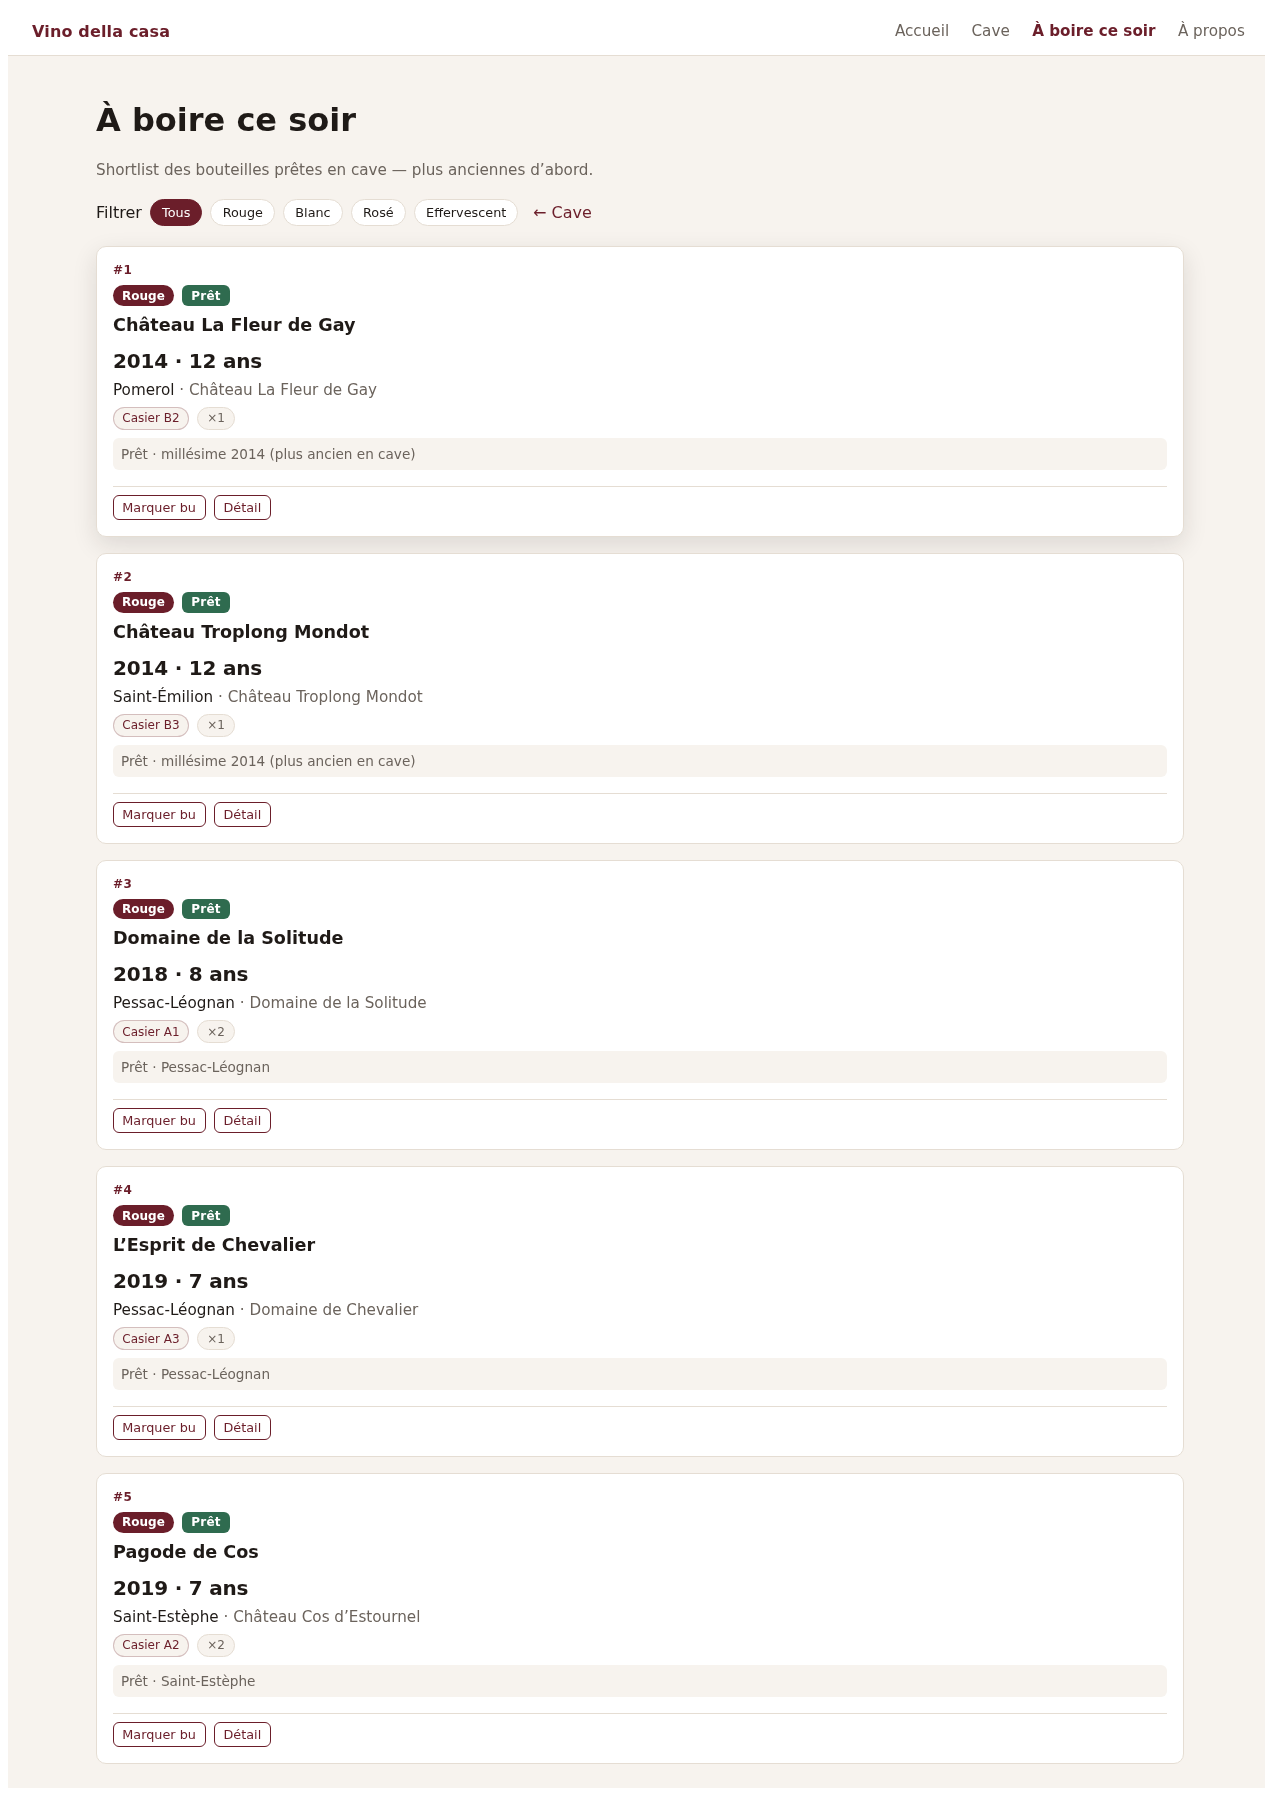
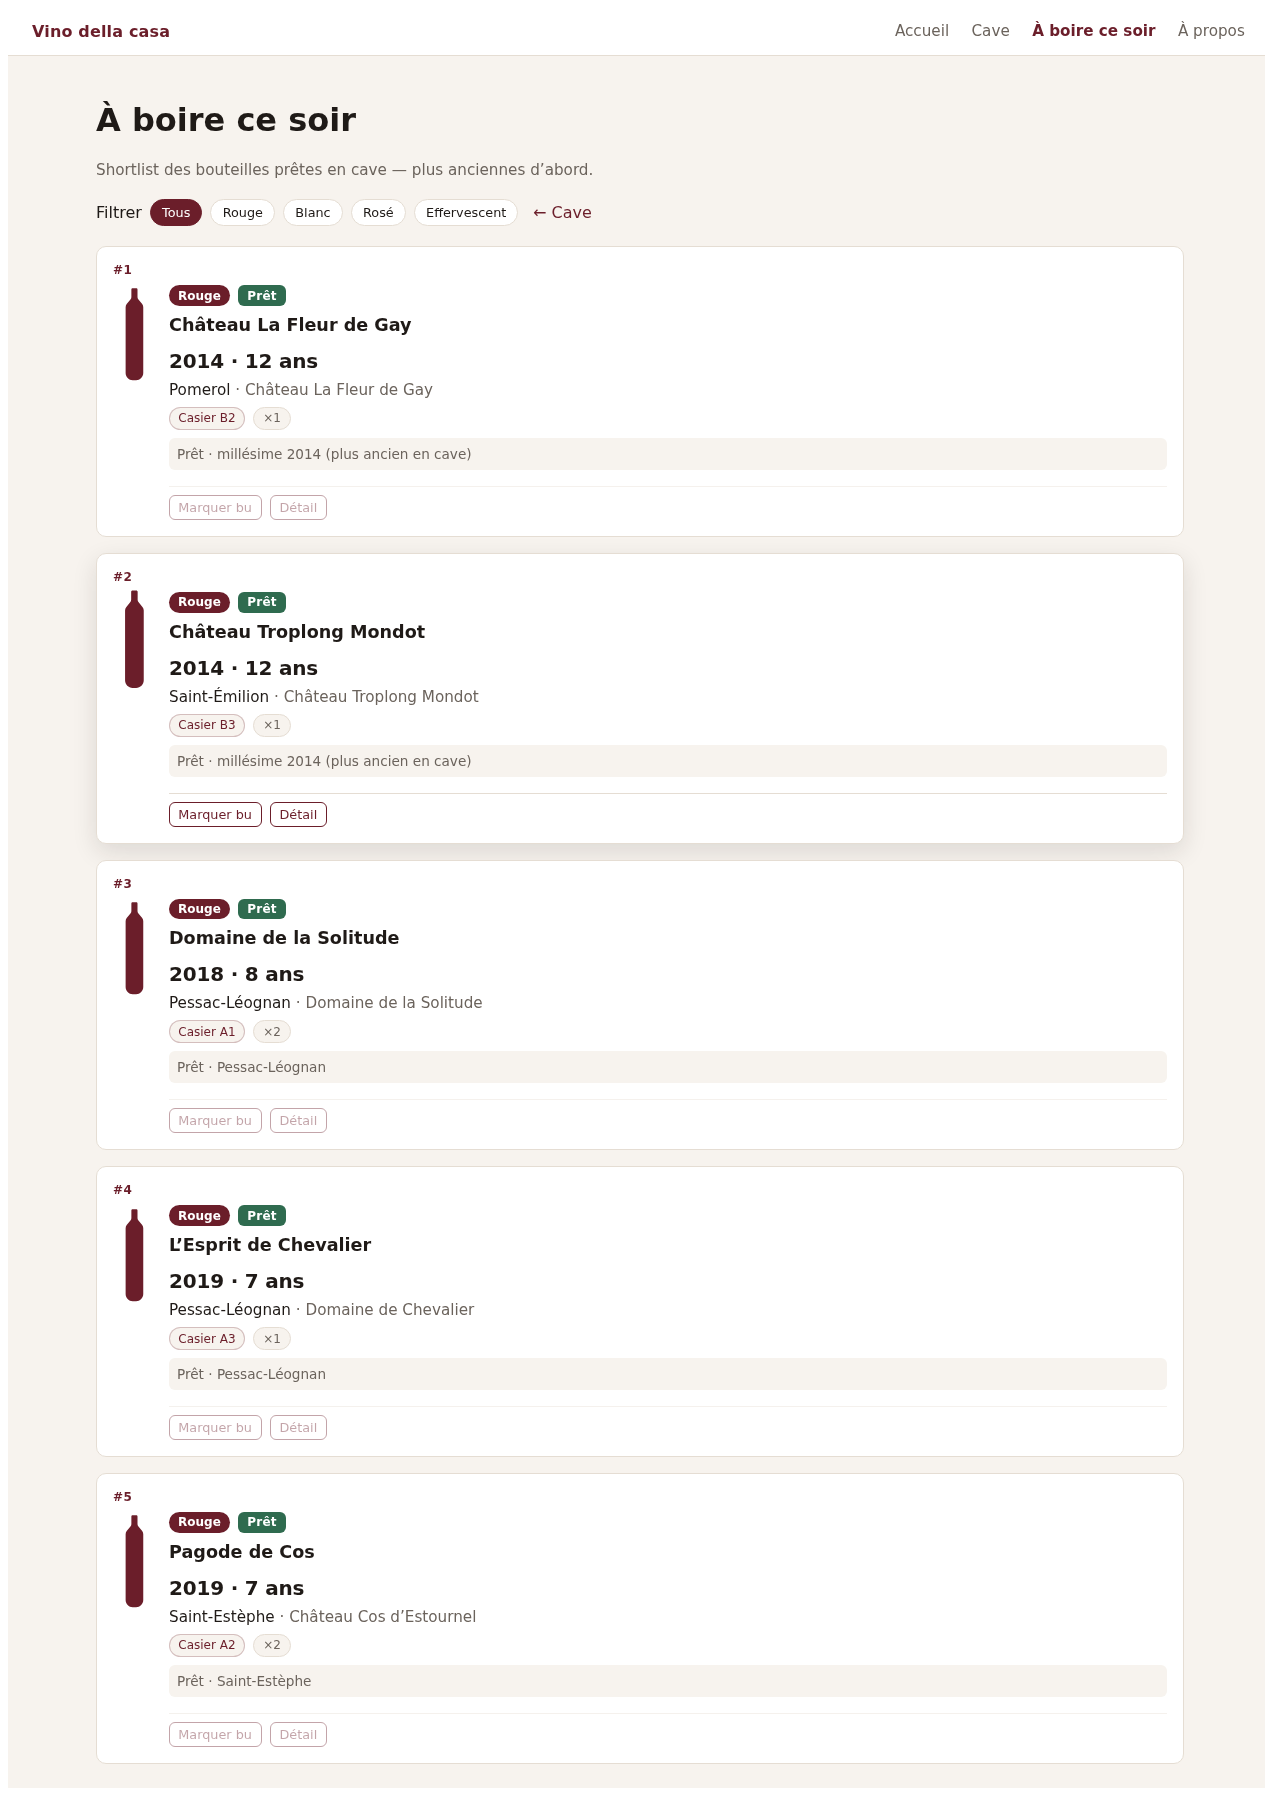
docs: retake Cave + Drink tonight screenshots (silhouettes) (#37)

diff --git a/docs/screenshots/README.md b/docs/screenshots/README.md
@@ -5,7 +5,7 @@ Expected files for the product README:
 | File | View |
 |------|------|
 | `home-hero.png` | Accueil — home hero |
-| `cave.png` | Cellar — bottle cards |
+| `cellar-cards.png` | Cellar — bottle cards (silhouettes) |
 | `drink-tonight.png` | Drink tonight — ranked ready bottles |
 
 Capture from the live demo: https://mascot27.github.io/vino-della-casa/

diff --git a/README.md b/README.md
@@ -12,7 +12,7 @@ Accueil:
 
 Cellar — bottle cards:
 
-![Cellar — bottle cards](docs/screenshots/cave.png)
+![Cellar — bottle cards](docs/screenshots/cellar-cards.png)
 
 Drink tonight — ranked ready bottles:
 
